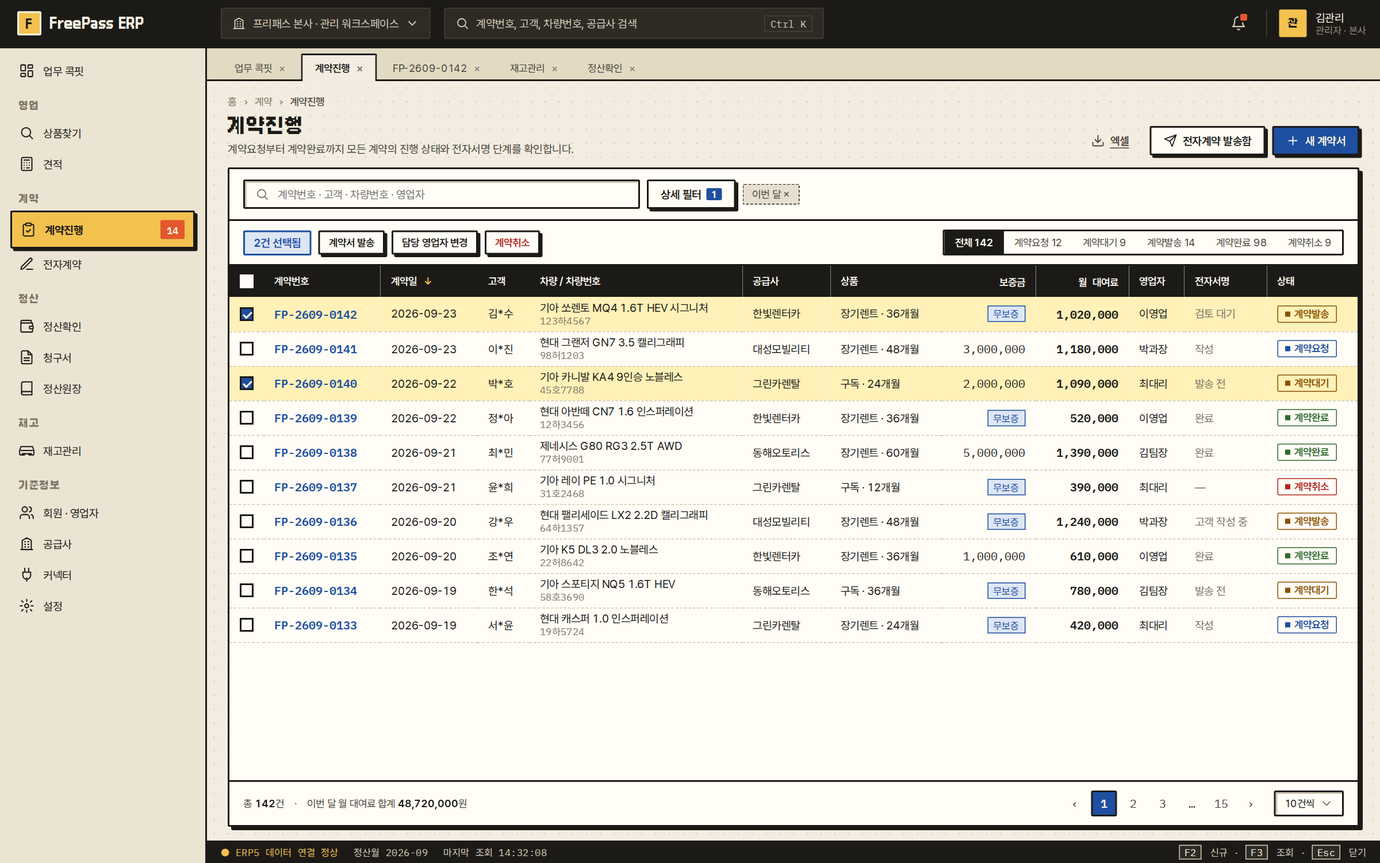
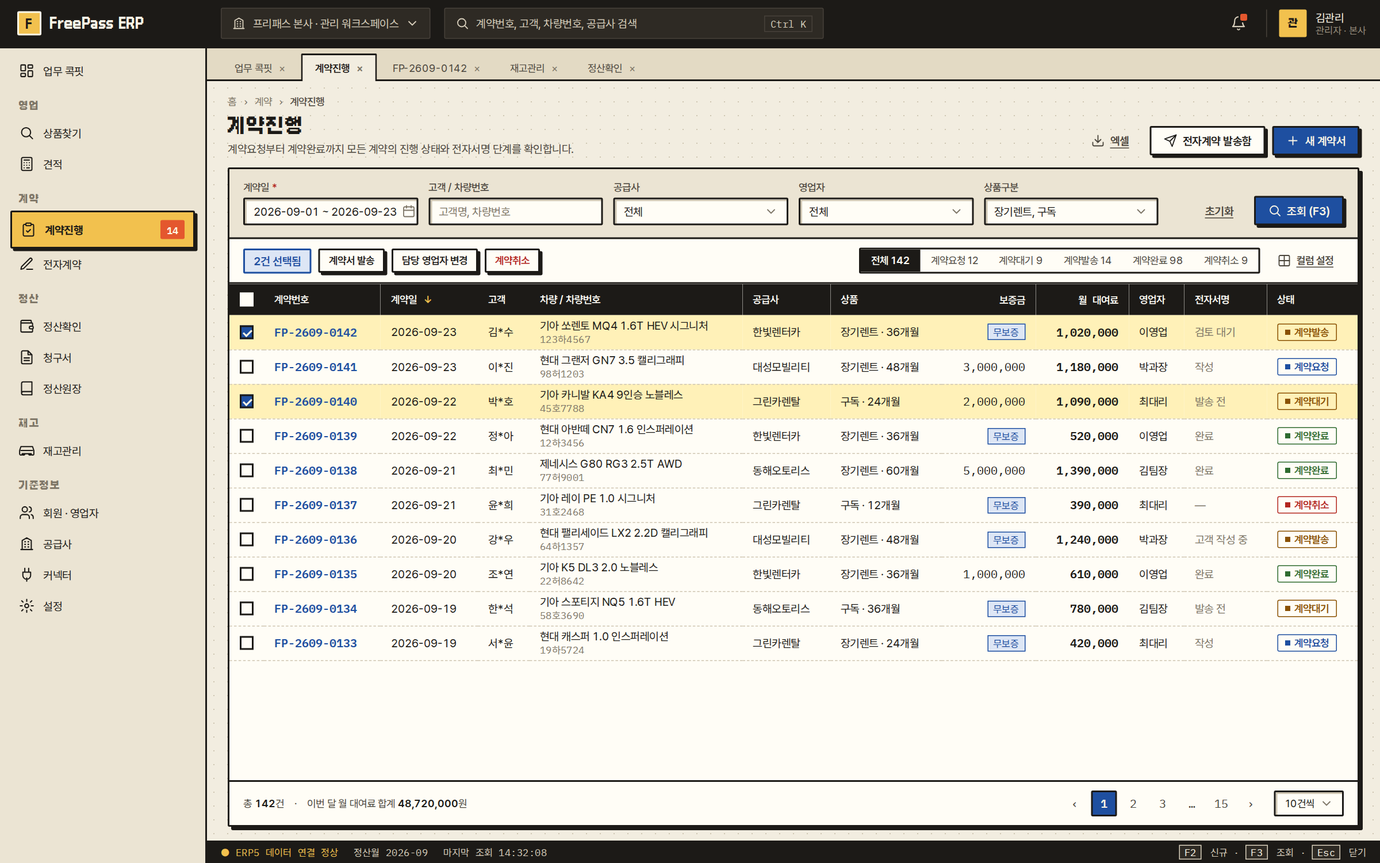
[Claude] ERP 표준 — 시안·템플릿 원래대로 복원, 검색창·상세 필터는 추가 부품으로만
대표 2026-09-23 「규격 잘 잡아놓고 조금 다른 거 얘기했더니 없는 거 얘기했던 거 깨지냐」
- main.html · platform 시안 · 이미지를 b13d4a9 상태로 되돌린다
- erp.css 의 검색창 · 상세 필터 · 한 줄 처리 폼은 추가 부품(README §5-1)으로 남긴다

Claude-Session: https://claude.ai/code/session_01VHqvSXhUy82o1cFFrYMP3F

Changed region(s): [[0.1562, 0.184, 1.0, 0.7667]]

diff --git a/design/erp-standard/platform/inventory.html b/design/erp-standard/platform/inventory.html
@@ -71,7 +71,20 @@
       <div class="erp-kpi"><div class="erp-kpi-label">출고불가 · 시트 불일치 <span>확인 필요</span></div><div class="erp-kpi-value erp-kpi-value--alert">43<small>대</small></div><div class="erp-kpi-delta"><span class="erp-down">시트 불일치 6대</span></div></div>
     </section>
     <section class="erp-card erp-card--fill">
-      <form class="erp-searchbar" data-region="filter" role="search"><label class="erp-search"><svg viewBox="0 0 24 24"><circle cx="11" cy="11" r="7"/><path d="m21 21-4.3-4.3"/></svg><input name="q" placeholder="차량번호 · 차명 · 옵션 · 공급사"></label><details class="erp-filter-more"><summary class="erp-btn">상세 필터 <b>2</b></summary><div class="erp-filter-panel"><div class="erp-facet"><p class="erp-facet-title">출고상태</p><div class="erp-facet-opts"><a class="erp-facet-opt" href="#">즉시출고 <small>86</small></a><a class="erp-facet-opt" href="#">출고가능 <small>142</small></a><a class="erp-facet-opt" href="#">출고협의 <small>41</small></a></div></div><div class="erp-facet"><p class="erp-facet-title">상품구분</p><div class="erp-facet-opts"><a class="erp-facet-opt" href="#">장기렌트 <small>214</small></a><a class="erp-facet-opt" href="#">구독 <small>98</small></a></div></div><div class="erp-facet"><p class="erp-facet-title">제조사</p><div class="erp-facet-opts"><a class="erp-facet-opt" href="#">기아 <small>131</small></a><a class="erp-facet-opt" href="#">현대 <small>122</small></a><a class="erp-facet-opt" href="#">제네시스 <small>34</small></a></div></div><div class="erp-facet"><p class="erp-facet-title">월 대여료 (36개월)</p><div class="erp-facet-opts"><a class="erp-facet-opt" href="#">50만원 이하 <small>61</small></a><a class="erp-facet-opt" href="#">100만원 이하 <small>187</small></a><a class="erp-facet-opt" href="#" aria-pressed="true">150만원 이하 <small>288</small></a></div></div><div class="erp-facet"><p class="erp-facet-title">우대조건</p><div class="erp-facet-opts"><a class="erp-facet-opt" href="#" aria-pressed="true">무보증 <small>176</small></a><a class="erp-facet-opt" href="#">만21세 <small>92</small></a><a class="erp-facet-opt" href="#">보증금 분납 <small>48</small></a></div></div><div class="erp-filter-panel-foot"><a class="erp-btn erp-btn--ghost" href="#">초기화</a><button class="erp-btn erp-btn--primary" type="submit">적용</button></div></div></details><span class="erp-chip">150만원 이하 ×</span><span class="erp-chip">무보증 ×</span><span class="erp-toolbar-spacer"></span><div data-region="grid-toolbar"><div class="erp-seg" role="group" aria-label="출고상태"><button type="button" aria-pressed="true">전체 312</button><button type="button" aria-pressed="false">즉시출고 86</button><button type="button" aria-pressed="false">출고가능 142</button><button type="button" aria-pressed="false">출고협의 41</button><button type="button" aria-pressed="false">출고불가 43</button></div></div></form>
+      <form class="erp-filter" data-region="filter" role="search">
+        <label class="erp-field"><span class="erp-label">제조사 / 모델</span><span class="erp-input">기아, 현대 외 2<svg viewBox="0 0 24 24"><path d="m6 9 6 6 6-6"/></svg></span></label>
+        <label class="erp-field"><span class="erp-label">상품구분</span><span class="erp-input">전체<svg viewBox="0 0 24 24"><path d="m6 9 6 6 6-6"/></svg></span></label>
+        <label class="erp-field"><span class="erp-label">계약기간 기준</span><span class="erp-input">36개월<svg viewBox="0 0 24 24"><path d="m6 9 6 6 6-6"/></svg></span></label>
+        <label class="erp-field"><span class="erp-label">월 대여료</span><span class="erp-input">150만원 이하<svg viewBox="0 0 24 24"><path d="m6 9 6 6 6-6"/></svg></span></label>
+        <label class="erp-field"><span class="erp-label">차량번호 / 차명</span><input class="erp-input" placeholder="차량번호, 차명, 옵션"></label>
+        <div class="erp-filter-actions"><button class="erp-btn erp-btn--ghost" type="button">초기화</button><button class="erp-btn erp-btn--primary" type="submit"><svg viewBox="0 0 24 24"><circle cx="11" cy="11" r="7"/><path d="m21 21-4.3-4.3"/></svg>조회 (F3)</button></div>
+      </form>
+      <div class="erp-toolbar" data-region="grid-toolbar">
+        <span class="erp-chip">우대조건: 무보증 ×</span><span class="erp-chip">공급사: 전체</span>
+        <span class="erp-toolbar-spacer"></span>
+        <div class="erp-seg" role="group" aria-label="출고상태"><button type="button" aria-pressed="true">전체 312</button><button type="button" aria-pressed="false">즉시출고 86</button><button type="button" aria-pressed="false">출고가능 142</button><button type="button" aria-pressed="false">출고협의 41</button><button type="button" aria-pressed="false">출고불가 43</button></div>
+        <button class="erp-btn erp-btn--sm erp-btn--ghost" type="button"><svg viewBox="0 0 24 24"><rect x="3" y="3" width="18" height="18" rx="2"/><path d="M12 3v18M3 12h18"/></svg>컬럼 설정</button>
+      </div>
       <div class="erp-grid-scroll" data-region="grid">
         <table class="erp-grid">
           <thead><tr><th class="erp-col-check"><input class="erp-check" type="checkbox" aria-label="전체 선택"></th><th>차량번호</th><th>차명 / 트림</th><th>연식 · 주행</th><th>색상</th><th>공급사</th><th>상품구분</th><th class="erp-num">월 대여료 (36개월)</th><th class="erp-num">보증금</th><th>우대조건</th><th>출고상태</th><th aria-sort="descending">최종 갱신 <span class="erp-sort">↓</span></th></tr></thead>

diff --git a/design/erp-standard/platform/retro/inventory.html b/design/erp-standard/platform/retro/inventory.html
@@ -75,7 +75,20 @@
       <div class="erp-kpi"><div class="erp-kpi-label">출고불가 · 시트 불일치 <span>확인 필요</span></div><div class="erp-kpi-value erp-kpi-value--alert">43<small>대</small></div><div class="erp-kpi-delta"><span class="erp-down">시트 불일치 6대</span></div></div>
     </section>
     <section class="erp-card erp-card--fill">
-      <form class="erp-searchbar" data-region="filter" role="search"><label class="erp-search"><svg viewBox="0 0 24 24"><circle cx="11" cy="11" r="7"/><path d="m21 21-4.3-4.3"/></svg><input name="q" placeholder="차량번호 · 차명 · 옵션 · 공급사"></label><details class="erp-filter-more"><summary class="erp-btn">상세 필터 <b>2</b></summary><div class="erp-filter-panel"><div class="erp-facet"><p class="erp-facet-title">출고상태</p><div class="erp-facet-opts"><a class="erp-facet-opt" href="#">즉시출고 <small>86</small></a><a class="erp-facet-opt" href="#">출고가능 <small>142</small></a><a class="erp-facet-opt" href="#">출고협의 <small>41</small></a></div></div><div class="erp-facet"><p class="erp-facet-title">상품구분</p><div class="erp-facet-opts"><a class="erp-facet-opt" href="#">장기렌트 <small>214</small></a><a class="erp-facet-opt" href="#">구독 <small>98</small></a></div></div><div class="erp-facet"><p class="erp-facet-title">제조사</p><div class="erp-facet-opts"><a class="erp-facet-opt" href="#">기아 <small>131</small></a><a class="erp-facet-opt" href="#">현대 <small>122</small></a><a class="erp-facet-opt" href="#">제네시스 <small>34</small></a></div></div><div class="erp-facet"><p class="erp-facet-title">월 대여료 (36개월)</p><div class="erp-facet-opts"><a class="erp-facet-opt" href="#">50만원 이하 <small>61</small></a><a class="erp-facet-opt" href="#">100만원 이하 <small>187</small></a><a class="erp-facet-opt" href="#" aria-pressed="true">150만원 이하 <small>288</small></a></div></div><div class="erp-facet"><p class="erp-facet-title">우대조건</p><div class="erp-facet-opts"><a class="erp-facet-opt" href="#" aria-pressed="true">무보증 <small>176</small></a><a class="erp-facet-opt" href="#">만21세 <small>92</small></a><a class="erp-facet-opt" href="#">보증금 분납 <small>48</small></a></div></div><div class="erp-filter-panel-foot"><a class="erp-btn erp-btn--ghost" href="#">초기화</a><button class="erp-btn erp-btn--primary" type="submit">적용</button></div></div></details><span class="erp-chip">150만원 이하 ×</span><span class="erp-chip">무보증 ×</span><span class="erp-toolbar-spacer"></span><div data-region="grid-toolbar"><div class="erp-seg" role="group" aria-label="출고상태"><button type="button" aria-pressed="true">전체 312</button><button type="button" aria-pressed="false">즉시출고 86</button><button type="button" aria-pressed="false">출고가능 142</button><button type="button" aria-pressed="false">출고협의 41</button><button type="button" aria-pressed="false">출고불가 43</button></div></div></form>
+      <form class="erp-filter" data-region="filter" role="search">
+        <label class="erp-field"><span class="erp-label">제조사 / 모델</span><span class="erp-input">기아, 현대 외 2<svg viewBox="0 0 24 24"><path d="m6 9 6 6 6-6"/></svg></span></label>
+        <label class="erp-field"><span class="erp-label">상품구분</span><span class="erp-input">전체<svg viewBox="0 0 24 24"><path d="m6 9 6 6 6-6"/></svg></span></label>
+        <label class="erp-field"><span class="erp-label">계약기간 기준</span><span class="erp-input">36개월<svg viewBox="0 0 24 24"><path d="m6 9 6 6 6-6"/></svg></span></label>
+        <label class="erp-field"><span class="erp-label">월 대여료</span><span class="erp-input">150만원 이하<svg viewBox="0 0 24 24"><path d="m6 9 6 6 6-6"/></svg></span></label>
+        <label class="erp-field"><span class="erp-label">차량번호 / 차명</span><input class="erp-input" placeholder="차량번호, 차명, 옵션"></label>
+        <div class="erp-filter-actions"><button class="erp-btn erp-btn--ghost" type="button">초기화</button><button class="erp-btn erp-btn--primary" type="submit"><svg viewBox="0 0 24 24"><circle cx="11" cy="11" r="7"/><path d="m21 21-4.3-4.3"/></svg>조회 (F3)</button></div>
+      </form>
+      <div class="erp-toolbar" data-region="grid-toolbar">
+        <span class="erp-chip">우대조건: 무보증 ×</span><span class="erp-chip">공급사: 전체</span>
+        <span class="erp-toolbar-spacer"></span>
+        <div class="erp-seg" role="group" aria-label="출고상태"><button type="button" aria-pressed="true">전체 312</button><button type="button" aria-pressed="false">즉시출고 86</button><button type="button" aria-pressed="false">출고가능 142</button><button type="button" aria-pressed="false">출고협의 41</button><button type="button" aria-pressed="false">출고불가 43</button></div>
+        <button class="erp-btn erp-btn--sm erp-btn--ghost" type="button"><svg viewBox="0 0 24 24"><rect x="3" y="3" width="18" height="18" rx="2"/><path d="M12 3v18M3 12h18"/></svg>컬럼 설정</button>
+      </div>
       <div class="erp-grid-scroll" data-region="grid">
         <table class="erp-grid">
           <thead><tr><th class="erp-col-check"><input class="erp-check" type="checkbox" aria-label="전체 선택"></th><th>차량번호</th><th>차명 / 트림</th><th>연식 · 주행</th><th>색상</th><th>공급사</th><th>상품구분</th><th class="erp-num">월 대여료 (36개월)</th><th class="erp-num">보증금</th><th>우대조건</th><th>출고상태</th><th aria-sort="descending">최종 갱신 <span class="erp-sort">↓</span></th></tr></thead>

diff --git a/design/erp-standard/platform/contracts.html b/design/erp-standard/platform/contracts.html
@@ -65,12 +65,20 @@
       </div>
     </section>
     <section class="erp-card erp-card--fill">
-      <form class="erp-searchbar" data-region="filter" role="search"><label class="erp-search"><svg viewBox="0 0 24 24"><circle cx="11" cy="11" r="7"/><path d="m21 21-4.3-4.3"/></svg><input name="q" placeholder="계약번호 · 고객 · 차량번호 · 영업자"></label><details class="erp-filter-more"><summary class="erp-btn">상세 필터 <b>1</b></summary><div class="erp-filter-panel"><div class="erp-facet"><p class="erp-facet-title">계약일</p><div class="erp-facet-opts"><a class="erp-facet-opt" href="#" aria-pressed="true">이번 달 <small>142</small></a><a class="erp-facet-opt" href="#">지난 달 <small>131</small></a><a class="erp-facet-opt" href="#">최근 3개월 <small>402</small></a></div></div><div class="erp-facet"><p class="erp-facet-title">상품구분</p><div class="erp-facet-opts"><a class="erp-facet-opt" href="#">장기렌트 <small>98</small></a><a class="erp-facet-opt" href="#">구독 <small>44</small></a></div></div><div class="erp-facet"><p class="erp-facet-title">공급사</p><div class="erp-facet-opts"><a class="erp-facet-opt" href="#">한빛렌터카 <small>51</small></a><a class="erp-facet-opt" href="#">대성모빌리티 <small>38</small></a><a class="erp-facet-opt" href="#">그린카렌탈 <small>30</small></a><a class="erp-facet-opt" href="#">동해오토리스 <small>23</small></a></div></div><div class="erp-facet"><p class="erp-facet-title">영업자</p><div class="erp-facet-opts"><a class="erp-facet-opt" href="#">이영업 <small>44</small></a><a class="erp-facet-opt" href="#">박과장 <small>39</small></a><a class="erp-facet-opt" href="#">최대리 <small>33</small></a><a class="erp-facet-opt" href="#">김팀장 <small>26</small></a></div></div><div class="erp-filter-panel-foot"><a class="erp-btn erp-btn--ghost" href="#">초기화</a><button class="erp-btn erp-btn--primary" type="submit">적용</button></div></div></details><span class="erp-chip">이번 달 ×</span></form>
+      <form class="erp-filter" data-region="filter" role="search">
+        <label class="erp-field"><span class="erp-label">계약일 <em class="erp-req">*</em></span><span class="erp-input">2026-09-01 ~ 2026-09-23<svg viewBox="0 0 24 24"><rect x="3" y="4" width="18" height="17" rx="2"/><path d="M16 2v4M8 2v4M3 10h18"/></svg></span></label>
+        <label class="erp-field"><span class="erp-label">고객 / 차량번호</span><input class="erp-input" placeholder="고객명, 차량번호"></label>
+        <label class="erp-field"><span class="erp-label">공급사</span><span class="erp-input">전체<svg viewBox="0 0 24 24"><path d="m6 9 6 6 6-6"/></svg></span></label>
+        <label class="erp-field"><span class="erp-label">영업자</span><span class="erp-input">전체<svg viewBox="0 0 24 24"><path d="m6 9 6 6 6-6"/></svg></span></label>
+        <label class="erp-field"><span class="erp-label">상품구분</span><span class="erp-input">장기렌트, 구독<svg viewBox="0 0 24 24"><path d="m6 9 6 6 6-6"/></svg></span></label>
+        <div class="erp-filter-actions"><button class="erp-btn erp-btn--ghost" type="button">초기화</button><button class="erp-btn erp-btn--primary" type="submit"><svg viewBox="0 0 24 24"><circle cx="11" cy="11" r="7"/><path d="m21 21-4.3-4.3"/></svg>조회 (F3)</button></div>
+      </form>
       <div class="erp-toolbar" data-region="grid-toolbar">
         <span class="erp-selection">2건 선택됨</span>
         <button class="erp-btn erp-btn--sm" type="button">계약서 발송</button><button class="erp-btn erp-btn--sm" type="button">담당 영업자 변경</button><button class="erp-btn erp-btn--sm erp-btn--danger-text" type="button">계약취소</button>
         <span class="erp-toolbar-spacer"></span>
         <div class="erp-seg" role="group" aria-label="계약 상태"><button type="button" aria-pressed="true">전체 142</button><button type="button" aria-pressed="false">계약요청 12</button><button type="button" aria-pressed="false">계약대기 9</button><button type="button" aria-pressed="false">계약발송 14</button><button type="button" aria-pressed="false">계약완료 98</button><button type="button" aria-pressed="false">계약취소 9</button></div>
+        <button class="erp-btn erp-btn--sm erp-btn--ghost" type="button"><svg viewBox="0 0 24 24"><rect x="3" y="3" width="18" height="18" rx="2"/><path d="M12 3v18M3 12h18"/></svg>컬럼 설정</button>
       </div>
       <div class="erp-grid-scroll" data-region="grid">
         <table class="erp-grid">

diff --git a/design/erp-standard/platform/retro/contracts.html b/design/erp-standard/platform/retro/contracts.html
@@ -69,12 +69,20 @@
       </div>
     </section>
     <section class="erp-card erp-card--fill">
-      <form class="erp-searchbar" data-region="filter" role="search"><label class="erp-search"><svg viewBox="0 0 24 24"><circle cx="11" cy="11" r="7"/><path d="m21 21-4.3-4.3"/></svg><input name="q" placeholder="계약번호 · 고객 · 차량번호 · 영업자"></label><details class="erp-filter-more"><summary class="erp-btn">상세 필터 <b>1</b></summary><div class="erp-filter-panel"><div class="erp-facet"><p class="erp-facet-title">계약일</p><div class="erp-facet-opts"><a class="erp-facet-opt" href="#" aria-pressed="true">이번 달 <small>142</small></a><a class="erp-facet-opt" href="#">지난 달 <small>131</small></a><a class="erp-facet-opt" href="#">최근 3개월 <small>402</small></a></div></div><div class="erp-facet"><p class="erp-facet-title">상품구분</p><div class="erp-facet-opts"><a class="erp-facet-opt" href="#">장기렌트 <small>98</small></a><a class="erp-facet-opt" href="#">구독 <small>44</small></a></div></div><div class="erp-facet"><p class="erp-facet-title">공급사</p><div class="erp-facet-opts"><a class="erp-facet-opt" href="#">한빛렌터카 <small>51</small></a><a class="erp-facet-opt" href="#">대성모빌리티 <small>38</small></a><a class="erp-facet-opt" href="#">그린카렌탈 <small>30</small></a><a class="erp-facet-opt" href="#">동해오토리스 <small>23</small></a></div></div><div class="erp-facet"><p class="erp-facet-title">영업자</p><div class="erp-facet-opts"><a class="erp-facet-opt" href="#">이영업 <small>44</small></a><a class="erp-facet-opt" href="#">박과장 <small>39</small></a><a class="erp-facet-opt" href="#">최대리 <small>33</small></a><a class="erp-facet-opt" href="#">김팀장 <small>26</small></a></div></div><div class="erp-filter-panel-foot"><a class="erp-btn erp-btn--ghost" href="#">초기화</a><button class="erp-btn erp-btn--primary" type="submit">적용</button></div></div></details><span class="erp-chip">이번 달 ×</span></form>
+      <form class="erp-filter" data-region="filter" role="search">
+        <label class="erp-field"><span class="erp-label">계약일 <em class="erp-req">*</em></span><span class="erp-input">2026-09-01 ~ 2026-09-23<svg viewBox="0 0 24 24"><rect x="3" y="4" width="18" height="17" rx="2"/><path d="M16 2v4M8 2v4M3 10h18"/></svg></span></label>
+        <label class="erp-field"><span class="erp-label">고객 / 차량번호</span><input class="erp-input" placeholder="고객명, 차량번호"></label>
+        <label class="erp-field"><span class="erp-label">공급사</span><span class="erp-input">전체<svg viewBox="0 0 24 24"><path d="m6 9 6 6 6-6"/></svg></span></label>
+        <label class="erp-field"><span class="erp-label">영업자</span><span class="erp-input">전체<svg viewBox="0 0 24 24"><path d="m6 9 6 6 6-6"/></svg></span></label>
+        <label class="erp-field"><span class="erp-label">상품구분</span><span class="erp-input">장기렌트, 구독<svg viewBox="0 0 24 24"><path d="m6 9 6 6 6-6"/></svg></span></label>
+        <div class="erp-filter-actions"><button class="erp-btn erp-btn--ghost" type="button">초기화</button><button class="erp-btn erp-btn--primary" type="submit"><svg viewBox="0 0 24 24"><circle cx="11" cy="11" r="7"/><path d="m21 21-4.3-4.3"/></svg>조회 (F3)</button></div>
+      </form>
       <div class="erp-toolbar" data-region="grid-toolbar">
         <span class="erp-selection">2건 선택됨</span>
         <button class="erp-btn erp-btn--sm" type="button">계약서 발송</button><button class="erp-btn erp-btn--sm" type="button">담당 영업자 변경</button><button class="erp-btn erp-btn--sm erp-btn--danger-text" type="button">계약취소</button>
         <span class="erp-toolbar-spacer"></span>
         <div class="erp-seg" role="group" aria-label="계약 상태"><button type="button" aria-pressed="true">전체 142</button><button type="button" aria-pressed="false">계약요청 12</button><button type="button" aria-pressed="false">계약대기 9</button><button type="button" aria-pressed="false">계약발송 14</button><button type="button" aria-pressed="false">계약완료 98</button><button type="button" aria-pressed="false">계약취소 9</button></div>
+        <button class="erp-btn erp-btn--sm erp-btn--ghost" type="button"><svg viewBox="0 0 24 24"><rect x="3" y="3" width="18" height="18" rx="2"/><path d="M12 3v18M3 12h18"/></svg>컬럼 설정</button>
       </div>
       <div class="erp-grid-scroll" data-region="grid">
         <table class="erp-grid">

diff --git a/design/erp-standard/platform/retro/settlements.html b/design/erp-standard/platform/retro/settlements.html
@@ -79,11 +79,19 @@
       <section class="erp-card"><div class="erp-card-head"><h2 class="erp-card-title">지급 흐름 <small>프리패스 → 영업자</small></h2></div><div class="erp-card-body"><ol class="erp-steps"><li><span class="erp-step-dot">1</span>접수<span class="erp-step-count">8</span></li><li><span class="erp-step-dot">2</span>통보<span class="erp-step-count">13</span></li><li><span class="erp-step-dot">3</span>정정<span class="erp-step-count">1</span></li><li><span class="erp-step-dot">4</span>확인<span class="erp-step-count">14</span></li><li><span class="erp-step-dot">5</span>지급<span class="erp-step-count">19</span></li></ol></div></section>
     </div>
     <section class="erp-card erp-card--fill">
-      <form class="erp-searchbar" data-region="filter" role="search"><select class="erp-input erp-dd" aria-label="정산월"><option>2026-09</option><option>2026-08</option><option>2026-07</option></select><label class="erp-search"><svg viewBox="0 0 24 24"><circle cx="11" cy="11" r="7"/><path d="m21 21-4.3-4.3"/></svg><input name="q" placeholder="계약번호 · 공급사 · 영업자 · 고객"></label><details class="erp-filter-more"><summary class="erp-btn">상세 필터</summary><div class="erp-filter-panel"><div class="erp-facet"><p class="erp-facet-title">단계</p><div class="erp-facet-opts"><a class="erp-facet-opt" href="#">접수 <small>8</small></a><a class="erp-facet-opt" href="#">청구 <small>15</small></a><a class="erp-facet-opt" href="#">정정 <small>2</small></a><a class="erp-facet-opt" href="#">확인 <small>11</small></a><a class="erp-facet-opt" href="#">수금 <small>24</small></a></div></div><div class="erp-facet"><p class="erp-facet-title">공급사</p><div class="erp-facet-opts"><a class="erp-facet-opt" href="#">한빛렌터카 <small>14</small></a><a class="erp-facet-opt" href="#">대성모빌리티 <small>11</small></a><a class="erp-facet-opt" href="#">그린카렌탈 <small>9</small></a><a class="erp-facet-opt" href="#">동해오토리스 <small>8</small></a></div></div><div class="erp-filter-panel-foot"><a class="erp-btn erp-btn--ghost" href="#">초기화</a><button class="erp-btn erp-btn--primary" type="submit">적용</button></div></div></details></form>
+      <form class="erp-filter" data-region="filter" role="search">
+        <label class="erp-field"><span class="erp-label">정산월 <em class="erp-req">*</em></span><span class="erp-input">2026-09<svg viewBox="0 0 24 24"><rect x="3" y="4" width="18" height="17" rx="2"/><path d="M16 2v4M8 2v4M3 10h18"/></svg></span></label>
+        <label class="erp-field"><span class="erp-label">공급사</span><span class="erp-input">전체<svg viewBox="0 0 24 24"><path d="m6 9 6 6 6-6"/></svg></span></label>
+        <label class="erp-field"><span class="erp-label">영업자 / 에이전시</span><span class="erp-input">전체<svg viewBox="0 0 24 24"><path d="m6 9 6 6 6-6"/></svg></span></label>
+        <label class="erp-field"><span class="erp-label">단계</span><span class="erp-input">전체<svg viewBox="0 0 24 24"><path d="m6 9 6 6 6-6"/></svg></span></label>
+        <label class="erp-field"><span class="erp-label">계약번호 / 고객</span><input class="erp-input" placeholder="FP-"></label>
+        <div class="erp-filter-actions"><button class="erp-btn erp-btn--ghost" type="button">초기화</button><button class="erp-btn erp-btn--primary" type="submit"><svg viewBox="0 0 24 24"><circle cx="11" cy="11" r="7"/><path d="m21 21-4.3-4.3"/></svg>조회 (F3)</button></div>
+      </form>
       <div class="erp-toolbar" data-region="grid-toolbar">
         <div class="erp-seg" role="group" aria-label="정산 구분"><button type="button" aria-pressed="true">건별 정산 42</button><button type="button" aria-pressed="false">정정 필요 3</button><button type="button" aria-pressed="false">환수 3</button><button type="button" aria-pressed="false">보류 · 취소 2</button></div>
         <span class="erp-toolbar-spacer"></span>
         <button class="erp-btn erp-btn--sm" type="button">청구서 생성</button><button class="erp-btn erp-btn--sm" type="button">지급 통보</button>
+        <button class="erp-btn erp-btn--sm erp-btn--ghost" type="button"><svg viewBox="0 0 24 24"><rect x="3" y="3" width="18" height="18" rx="2"/><path d="M12 3v18M3 12h18"/></svg>컬럼 설정</button>
       </div>
       <div class="erp-grid-scroll" data-region="grid">
         <table class="erp-grid">

diff --git a/design/erp-standard/platform/settlements.html b/design/erp-standard/platform/settlements.html
@@ -75,11 +75,19 @@
       <section class="erp-card"><div class="erp-card-head"><h2 class="erp-card-title">지급 흐름 <small>프리패스 → 영업자</small></h2></div><div class="erp-card-body"><ol class="erp-steps"><li><span class="erp-step-dot">1</span>접수<span class="erp-step-count">8</span></li><li><span class="erp-step-dot">2</span>통보<span class="erp-step-count">13</span></li><li><span class="erp-step-dot">3</span>정정<span class="erp-step-count">1</span></li><li><span class="erp-step-dot">4</span>확인<span class="erp-step-count">14</span></li><li><span class="erp-step-dot">5</span>지급<span class="erp-step-count">19</span></li></ol></div></section>
     </div>
     <section class="erp-card erp-card--fill">
-      <form class="erp-searchbar" data-region="filter" role="search"><select class="erp-input erp-dd" aria-label="정산월"><option>2026-09</option><option>2026-08</option><option>2026-07</option></select><label class="erp-search"><svg viewBox="0 0 24 24"><circle cx="11" cy="11" r="7"/><path d="m21 21-4.3-4.3"/></svg><input name="q" placeholder="계약번호 · 공급사 · 영업자 · 고객"></label><details class="erp-filter-more"><summary class="erp-btn">상세 필터</summary><div class="erp-filter-panel"><div class="erp-facet"><p class="erp-facet-title">단계</p><div class="erp-facet-opts"><a class="erp-facet-opt" href="#">접수 <small>8</small></a><a class="erp-facet-opt" href="#">청구 <small>15</small></a><a class="erp-facet-opt" href="#">정정 <small>2</small></a><a class="erp-facet-opt" href="#">확인 <small>11</small></a><a class="erp-facet-opt" href="#">수금 <small>24</small></a></div></div><div class="erp-facet"><p class="erp-facet-title">공급사</p><div class="erp-facet-opts"><a class="erp-facet-opt" href="#">한빛렌터카 <small>14</small></a><a class="erp-facet-opt" href="#">대성모빌리티 <small>11</small></a><a class="erp-facet-opt" href="#">그린카렌탈 <small>9</small></a><a class="erp-facet-opt" href="#">동해오토리스 <small>8</small></a></div></div><div class="erp-filter-panel-foot"><a class="erp-btn erp-btn--ghost" href="#">초기화</a><button class="erp-btn erp-btn--primary" type="submit">적용</button></div></div></details></form>
+      <form class="erp-filter" data-region="filter" role="search">
+        <label class="erp-field"><span class="erp-label">정산월 <em class="erp-req">*</em></span><span class="erp-input">2026-09<svg viewBox="0 0 24 24"><rect x="3" y="4" width="18" height="17" rx="2"/><path d="M16 2v4M8 2v4M3 10h18"/></svg></span></label>
+        <label class="erp-field"><span class="erp-label">공급사</span><span class="erp-input">전체<svg viewBox="0 0 24 24"><path d="m6 9 6 6 6-6"/></svg></span></label>
+        <label class="erp-field"><span class="erp-label">영업자 / 에이전시</span><span class="erp-input">전체<svg viewBox="0 0 24 24"><path d="m6 9 6 6 6-6"/></svg></span></label>
+        <label class="erp-field"><span class="erp-label">단계</span><span class="erp-input">전체<svg viewBox="0 0 24 24"><path d="m6 9 6 6 6-6"/></svg></span></label>
+        <label class="erp-field"><span class="erp-label">계약번호 / 고객</span><input class="erp-input" placeholder="FP-"></label>
+        <div class="erp-filter-actions"><button class="erp-btn erp-btn--ghost" type="button">초기화</button><button class="erp-btn erp-btn--primary" type="submit"><svg viewBox="0 0 24 24"><circle cx="11" cy="11" r="7"/><path d="m21 21-4.3-4.3"/></svg>조회 (F3)</button></div>
+      </form>
       <div class="erp-toolbar" data-region="grid-toolbar">
         <div class="erp-seg" role="group" aria-label="정산 구분"><button type="button" aria-pressed="true">건별 정산 42</button><button type="button" aria-pressed="false">정정 필요 3</button><button type="button" aria-pressed="false">환수 3</button><button type="button" aria-pressed="false">보류 · 취소 2</button></div>
         <span class="erp-toolbar-spacer"></span>
         <button class="erp-btn erp-btn--sm" type="button">청구서 생성</button><button class="erp-btn erp-btn--sm" type="button">지급 통보</button>
+        <button class="erp-btn erp-btn--sm erp-btn--ghost" type="button"><svg viewBox="0 0 24 24"><rect x="3" y="3" width="18" height="18" rx="2"/><path d="M12 3v18M3 12h18"/></svg>컬럼 설정</button>
       </div>
       <div class="erp-grid-scroll" data-region="grid">
         <table class="erp-grid">

diff --git a/design/erp-standard/main.html b/design/erp-standard/main.html
@@ -89,19 +89,17 @@
     </section>
 
     <section class="erp-card erp-card--fill">
-      <!-- ⑥ 조회 — 검색창 + 상세 필터 (드롭다운을 늘어놓지 않는다) -->
-      <form class="erp-searchbar" data-region="filter" role="search">
-        <label class="erp-search"><svg viewBox="0 0 24 24"><circle cx="11" cy="11" r="7"/><path d="m21 21-4.3-4.3"/></svg><input name="q" placeholder="수주번호 · 거래처 · 품목 · 담당자"></label>
-        <details class="erp-filter-more">
-          <summary class="erp-btn">상세 필터 <b>2</b></summary>
-          <div class="erp-filter-panel">
-            <div class="erp-facet"><p class="erp-facet-title">수주일자</p><div class="erp-facet-opts"><a class="erp-facet-opt" href="#">오늘</a><a class="erp-facet-opt" href="#">이번 주</a><a class="erp-facet-opt" href="#" aria-pressed="true">이번 달 <small>128</small></a><a class="erp-facet-opt" href="#">지난 달</a></div></div>
-            <div class="erp-facet"><p class="erp-facet-title">담당자</p><div class="erp-facet-opts"><a class="erp-facet-opt" href="#">이영업 <small>41</small></a><a class="erp-facet-opt" href="#" aria-pressed="true">박과장 <small>37</small></a><a class="erp-facet-opt" href="#">최대리 <small>29</small></a><a class="erp-facet-opt" href="#">김사원 <small>21</small></a></div></div>
-            <div class="erp-facet"><p class="erp-facet-title">거래처</p><div class="erp-facet-opts"><a class="erp-facet-opt" href="#">(주)한빛정밀 <small>18</small></a><a class="erp-facet-opt" href="#">대성산업(주) <small>15</small></a><a class="erp-facet-opt" href="#">그린테크 <small>12</small></a></div></div>
-            <div class="erp-filter-panel-foot"><a class="erp-btn erp-btn--ghost" href="#">초기화</a><button class="erp-btn erp-btn--primary" type="submit">적용</button></div>
-          </div>
-        </details>
-        <span class="erp-chip">이번 달 ×</span><span class="erp-chip">담당: 박과장 ×</span>
+      <!-- ⑥ 조회조건 바 -->
+      <form class="erp-filter" data-region="filter" role="search">
+        <label class="erp-field"><span class="erp-label">수주일자 <em class="erp-req">*</em></span><span class="erp-input">2026-09-01 ~ 2026-09-23<svg viewBox="0 0 24 24"><rect x="3" y="4" width="18" height="17" rx="2"/><path d="M16 2v4M8 2v4M3 10h18"/></svg></span></label>
+        <label class="erp-field"><span class="erp-label">거래처</span><input class="erp-input" placeholder="거래처명 / 코드"></label>
+        <label class="erp-field"><span class="erp-label">담당자</span><span class="erp-input">전체<svg viewBox="0 0 24 24"><path d="m6 9 6 6 6-6"/></svg></span></label>
+        <label class="erp-field"><span class="erp-label">진행상태</span><span class="erp-input">확정, 출하중 외 1<svg viewBox="0 0 24 24"><path d="m6 9 6 6 6-6"/></svg></span></label>
+        <label class="erp-field"><span class="erp-label">수주번호</span><input class="erp-input" placeholder="SO-"></label>
+        <div class="erp-filter-actions">
+          <button class="erp-btn erp-btn--ghost" type="reset">초기화</button>
+          <button class="erp-btn erp-btn--primary" type="submit"><svg viewBox="0 0 24 24"><circle cx="11" cy="11" r="7"/><path d="m21 21-4.3-4.3"/></svg>조회 (F3)</button>
+        </div>
       </form>
 
       <!-- ⑦ 데이터 그리드 -->
@@ -110,7 +108,8 @@
         <button class="erp-btn erp-btn--sm" type="button">확정</button>
         <button class="erp-btn erp-btn--sm" type="button">출하지시 생성</button>
         <button class="erp-btn erp-btn--sm erp-btn--danger-text" type="button">삭제</button>
-                <span class="erp-toolbar-spacer"></span>
+        <span class="erp-chip">상태: 확정, 출하중, 지연 ×</span>
+        <span class="erp-toolbar-spacer"></span>
         <div class="erp-seg" role="group" aria-label="상태 탭">
           <button type="button" aria-pressed="true">전체 128</button><button type="button" aria-pressed="false">작성중 9</button><button type="button" aria-pressed="false">확정 57</button><button type="button" aria-pressed="false">출하중 38</button><button type="button" aria-pressed="false">완료 24</button>
         </div>

diff --git a/design/erp-standard/README.md b/design/erp-standard/README.md
@@ -27,7 +27,7 @@
 | ③ | 작업 탭 (MDI) | `tabs` | 여러 화면을 탭으로 동시에 연다 · 선택 탭 `aria-selected="true"` |
 | ④ | 페이지 헤더 | `page-header` | 경로 · 제목(22/700) · 즐겨찾기 · 설명 · 액션(우측 정렬) |
 | ⑤ | 요약 KPI | `kpi` | **선택** · 4열 카드 · 숫자 24/700 · 증감은 ▲▼ + 색 |
-| ⑥ | 조회 | `filter` | **검색창 하나 + 상세 필터 하나**(`erp-searchbar`). 조건은 상세 필터 안의 건수 붙은 선택지로 고른다. 드롭다운은 분류가 꼭 필요한 화면(계약 · 정산 · 실적)에서만 1~2개 |
+| ⑥ | 조회조건 바 | `filter` | 라벨 위 입력 · 필수 `*` · 초기화 · 조회(F3). 검색 위주 화면은 §5-1 검색창 + 상세 필터를 쓸 수 있다 |
 | ⑦ | 데이터 그리드 | `grid-toolbar` · `grid` | 선택 건수·일괄 액션 · 상태 탭 · 컬럼 설정 · 합계 · 페이징 |
 | ⑧ | 상태바 | `statusbar` | 높이 26 · 서버 연결 · 회계기간 · 마지막 조회 · 단축키 |
 
@@ -87,14 +87,16 @@
 | 진행 단계 | `erp-steps` | 업무 흐름. 완료 `data-state="done"`, 현재 `aria-current="step"` |
 | 처리 대기열 · 값 묶음 · 이력 | `erp-queue` · `erp-props` · `erp-timeline` | 콕핏·상세 화면 ([platform/](platform/README.md) 참고) |
 
-## 5-1. 조회 규칙 — 미니멀 (대표 2026-09-23)
+## 5-1. 추가 부품 — 검색창 + 상세 필터 (FreePass Admin, 대표 2026-09-23)
 
-> 「우리가 지금 최대한 검색창이랑 상세 필터를 쓰려고 하잖아. 드랍다운 쓰는 거는 계약, 정산, 실적 이런 데서만 … 최소화할 건 최소화하고 … 더 미니멀하고 심플하게」
+기본 조회조건 바(⑥)는 그대로다. 검색이 먼저인 화면(FreePass Admin)은 같은 자리에 아래 부품을 쓴다.
 
-- 목록 조회 = `erp-searchbar`: **검색창**(`erp-search`) + **상세 필터**(`<details class="erp-filter-more">` → `erp-filter-panel` 안에 `erp-facet` · `erp-facet-opt` 건수 칩) + 적용된 조건 칩(×).
-- 상태 분류는 세그먼트 탭(`erp-seg`)으로, **검색 줄 오른쪽**에 둔다. 툴바 줄(`erp-toolbar`)은 선택한 줄에 대한 일괄 작업이 있을 때만 따로 둔다. 드롭다운(`select.erp-input`)은 분류가 꼭 필요한 화면(계약 · 정산 · 실적)에서만, 한 화면에 1~2개.
-- 라벨 위 입력칸을 가로로 늘어놓는 `erp-filter` 바는 등록/수정 폼이나 조건이 많은 특수 조회에만 쓴다.
-- 설명 문장 · 장식용 칩 · 쓰지 않는 단추(컬럼 설정 등)를 두지 않는다. 한 화면에 Primary 는 하나.
+| 부품 | 클래스 | 쓰임 |
+|---|---|---|
+| 검색 줄 | `erp-searchbar` · `erp-search` | 검색창 하나 + 적용된 조건 칩(×) |
+| 상세 필터 | `erp-filter-more`(`<details>`) · `erp-filter-panel` · `erp-facet` · `erp-facet-opt` | 조건을 건수 붙은 선택지로 고른다 |
+| 분류 드롭다운 | `erp-dd` | 계약 · 정산 · 실적처럼 분류가 필요한 화면에서만 |
+| 한 줄 처리 폼 | `erp-inline-form` | 상세의 «처리» 카드 — 값 한 칸 + 단추 |
 
 ## 6. ERP 공통 동작 규칙
 
